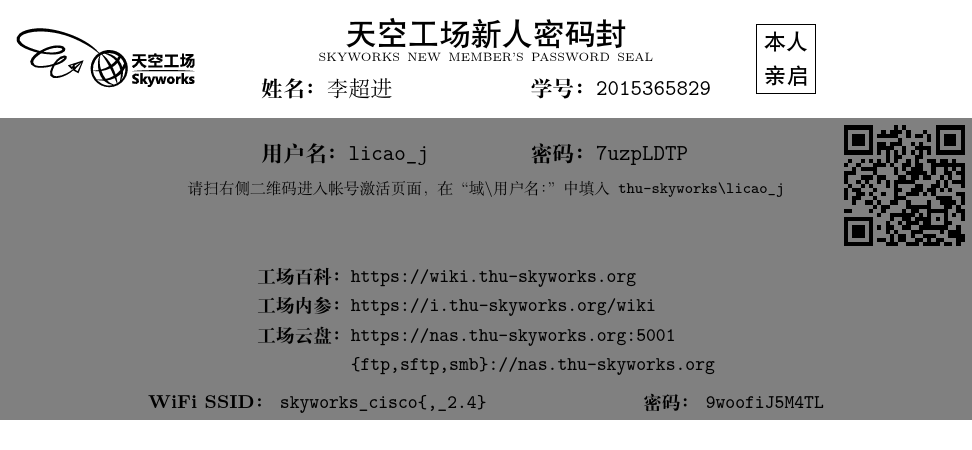
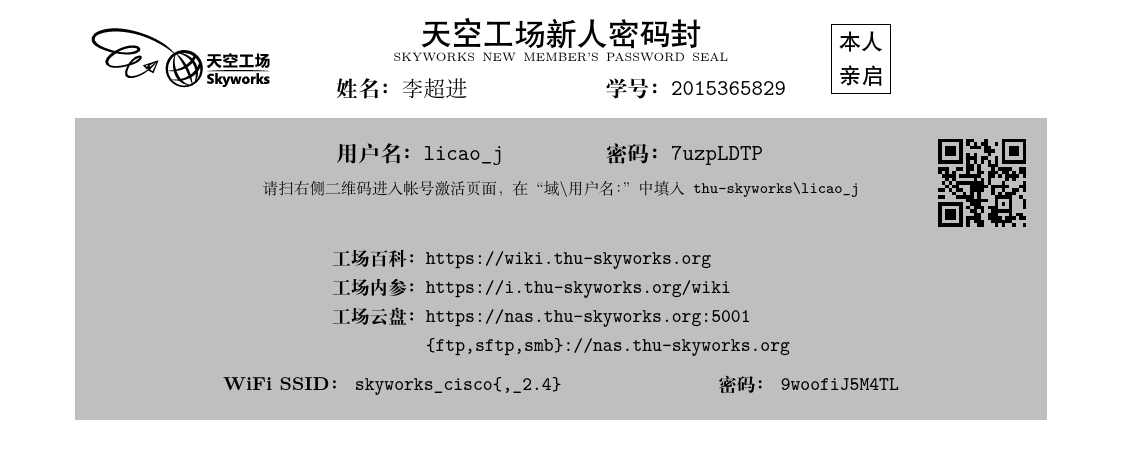
Adjustment t0 PASSSEAL.

diff --git a/passwordseal.tex b/passwordseal.tex
@@ -11,22 +11,23 @@
 %\begin{document}
 %\begin{tikzpicture}[remember picture, overlay, shift=(current page.north west)]
 	%\tikzset{every node/.style={draw}}
-	\node [fit={(0,-2cm) ($(current page.south east) - (0,-5mm)$)}, fill=gray,inner sep=0pt, minimum width=3in] (sealarea) {};
+%\tikzset{example/.style={black!25}}
+	\node [fit={(0.5in,-2cm) ($(current page.south east) - (0.5in,-5mm)$)},example,inner sep=0pt,minimum width=3in] (sealarea) {};
 	\path (current page.north) -- (sealarea.north)
 		node[midway,align=left,text width=3in] (title) {%
 			{\centering\sffamily\Large{天空工场新人密码封} \\
 			\rmfamily\tiny SKYWORKS NEW MEMBER'S PASSWORD SEAL \par}
 			{\textbf{姓名：}realname}
 		};
-	\node [anchor=north west] (logo) at (current page.north west |- title.north) {\includegraphics[width=1.3in]{20110623skyworkslogo.eps}};
+	\node [anchor=north west,xshift=0.5in] (logo) at (current page.north west |- title.north) {\includegraphics[width=1.3in]{20110623skyworkslogo.eps}};
 	\node [draw,align=center,font=\sffamily,xshift=2in] (inperson) at (title) {本人\\亲启};
 	\node [anchor=south east] (id) at (title.south east) {\textbf{学号：}\texttt{studentid}};
 	\node [anchor=north west,yshift=-5mm] (un) at (title.south west) {\textbf{用户名：}\texttt{username}};
 	\node [anchor=west] (pw) at (id.west |- un.east) {\textbf{密码：}\texttt{password}};
-	\node [anchor=north east] (qr) at (sealarea.north east) {\qrcode[height=2.048cm]{https://thu-skyworks.org/reset}};
+	\node [anchor=north east,inner sep=10pt] (qr) at (sealarea.north east) {\qrcode[height=1.49cm,level=L]{https://thu-skyworks.org/reset}};
 	\path (un.south west) -- (id.east |- un.south) node[midway,anchor=north,font=\footnotesize] 
 		{请扫右侧二维码进入帐号激活页面，在“域\textbackslash 用户名：”中填入\texttt{thu-skyworks\textbackslash username}};
-	\node [anchor=south,font=\small] (wifi) at (sealarea.south) {%
+	\node [anchor=south,font=\small,yshift=9pt] (wifi) at (sealarea.south) {%
 			\textbf{WiFi SSID：} \texttt{skyworks\_cisco\{,\_2.4\}}\hspace{1in}
 			\textbf{密码：} \texttt{wifipw}
 		};
